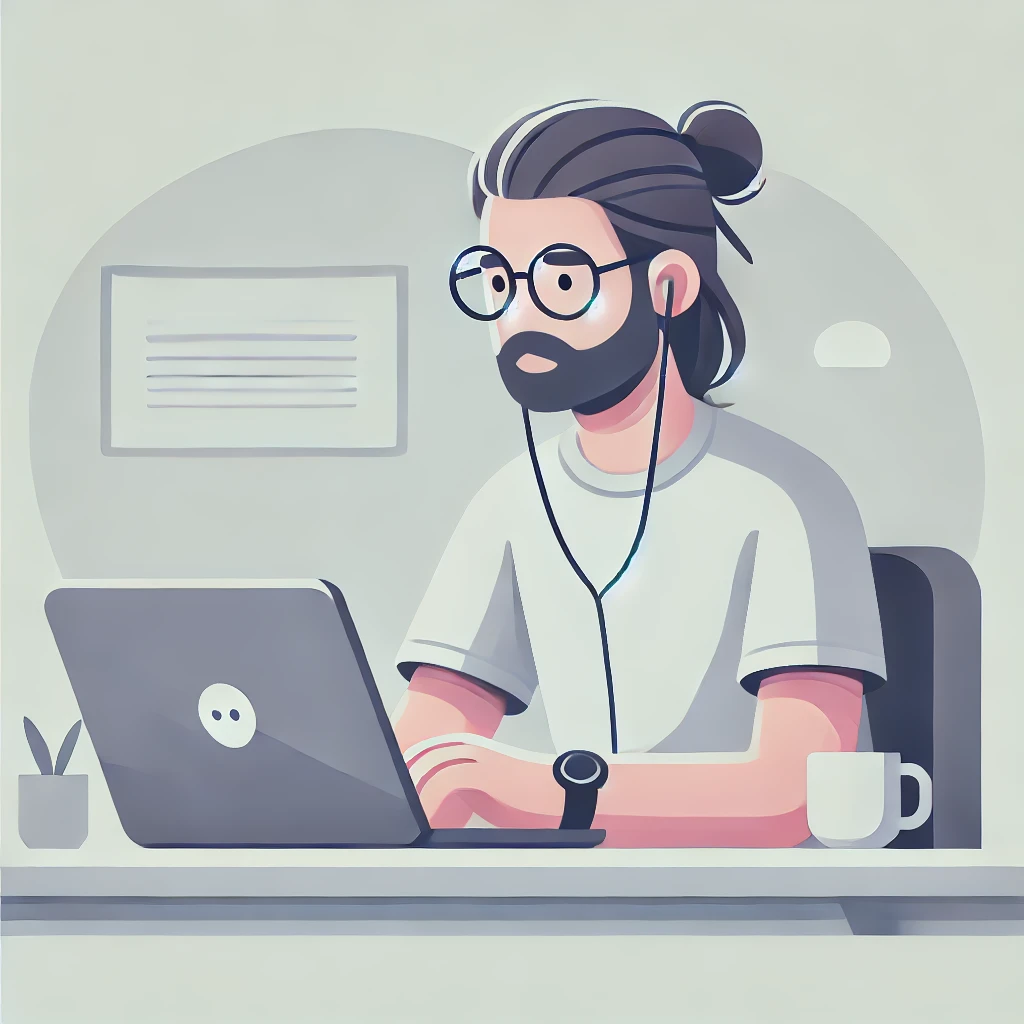
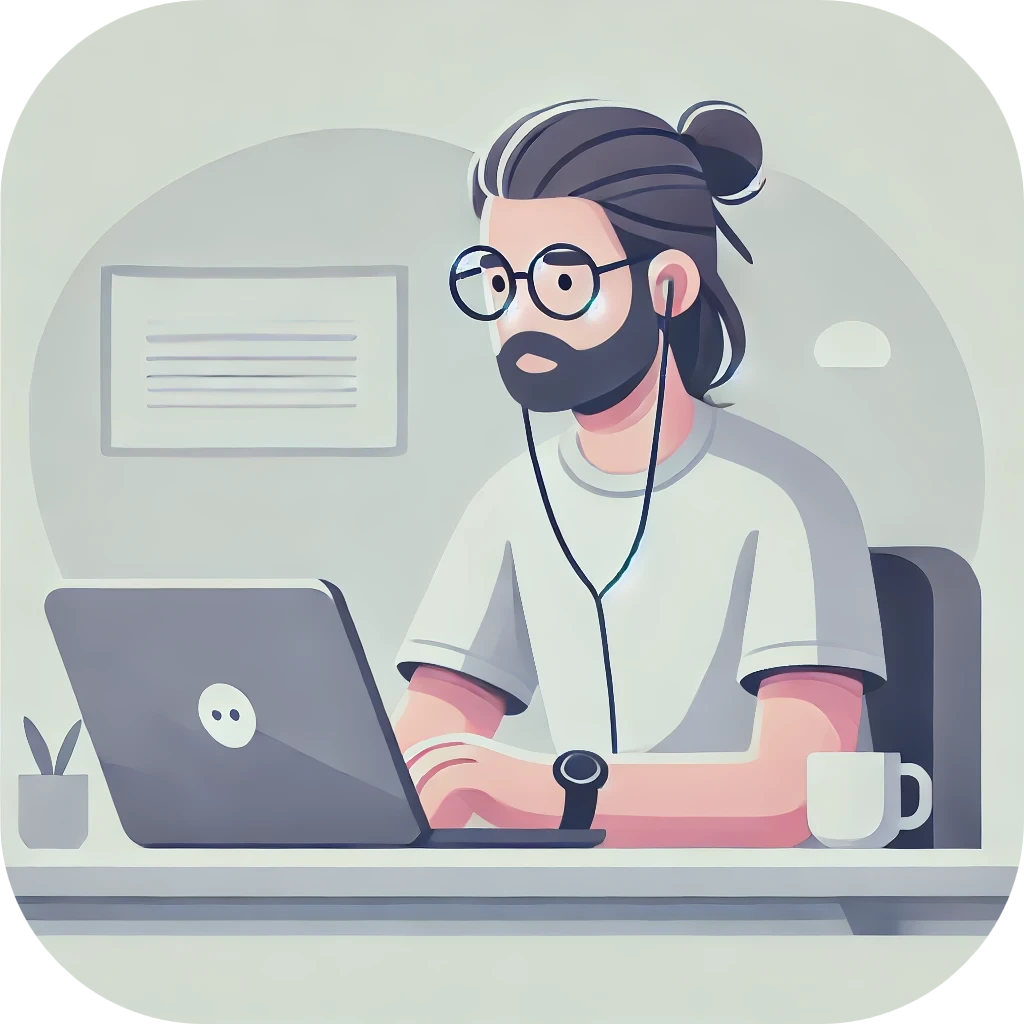
fix - polishing details

diff --git a/README.md b/README.md
@@ -1,10 +1,10 @@
 <h1 align="center">Hi 👋, I'm Alejandro</h1>
 <h3 align="center">A Backend-Focused Full-Stack Developer</h3>
-<img align="right" style="border-radius: 20%;" height="300" src="./assets/dev.webp" alt=""/>
+<img align="right" height="300" src="./assets/dev.webp" alt="Developer Illustration"/>
 
-![profile-views](https://komarev.com/ghpvc/?username=alecurfon&label=Profile%20views&color=0e8aea&style=flat)
+![](https://komarev.com/ghpvc/?username=alecurfon&label=Profile%20views&color=0e8aea&style=flat)
 
-### About me
+### About Me
 
 - 💼 BackEnd Engineer at [Instituto Tecnológico de Canarias S.A.](https://www.itccanarias.org)
 
@@ -14,12 +14,13 @@
 
 - 📫 Ask me about anything [here](https://github.com/alecurfon/alecurfon/issues)
 
-Thanks for stopping by! Feel free to reach out if you'd like to collaborate or have any comments.
 
-### Connect with me
+### Connect with Me
 
 <code>[<img src="https://raw.githubusercontent.com/devicons/devicon/master/icons/linkedin/linkedin-original.svg" height="20"/>](https://linkedin.com/in/alecurfon "in/alecurfon")</code>
 <code>[<img src="https://raw.githubusercontent.com/devicons/devicon/master/icons/github/github-original.svg" height="20"/>](https://github.com/alecurfon/alecurfon/issues "alecurfon")</code>
+
+Thanks for stopping by! Feel free to reach out if you'd like to collaborate or have any comments.
 
 ### Languages and Tools
 
@@ -34,20 +35,19 @@ My expertise lies primarily in backend technologies, but I also enjoy working on
 <code>[<img src="https://raw.githubusercontent.com/devicons/devicon/master/icons/pandas/pandas-original.svg" height="20"/>](https://pandas.pydata.org/ "Pandas")</code>
 <code>[<img src="https://raw.githubusercontent.com/devicons/devicon/master/icons/streamlit/streamlit-original.svg" height="20"/>](https://streamlit.io/ "Streamlit")</code>
 <code>[<img src="https://raw.githubusercontent.com/devicons/devicon/master/icons/typescript/typescript-original.svg" height="20"/>](https://www.typescriptlang.org/ "TypeScript")</code>
-<code>[<img src="https://raw.githubusercontent.com/devicons/devicon/master/icons/bash/bash-original.svg" height="20"/>](https://www.gnu.org/software/bash/ "GNU")</code>
+<code>[<img src="https://raw.githubusercontent.com/devicons/devicon/master/icons/bash/bash-original.svg" height="20"/>](https://www.gnu.org/software/bash/ "GNU Bash")</code>
 <code>[<img src="https://raw.githubusercontent.com/devicons/devicon/master/icons/github/github-original.svg" height="20"/>](https://github.com/ "GitHub")</code>
 <code>[<img src="https://raw.githubusercontent.com/devicons/devicon/master/icons/git/git-original.svg" height="20"/>](https://git-scm.com/ "Git")</code>
 <code>[<img src="https://raw.githubusercontent.com/devicons/devicon/master/icons/linux/linux-original.svg" height="20"/>](https://www.linux.org/ "Linux")</code>
 <code>[<img src="https://raw.githubusercontent.com/devicons/devicon/master/icons/ubuntu/ubuntu-original.svg" height="20"/>](https://www.ubuntu.com/ "Ubuntu")</code>
 
-![most-used-languages](https://github-readme-stats.vercel.app/api/top-langs/?username=alecurfon&layout=compact&theme=solarized-light)
+![](https://github-readme-stats.vercel.app/api/top-langs/?username=alecurfon&layout=compact&theme=solarized-light)
 
 ### Stats
 
-![github-stats](https://github-readme-stats.vercel.app/api?username=alecurfon&show_icons=true&include_all_commits=true&theme=solarized-light)
-![github-streak](https://github-readme-streak-stats.herokuapp.com?user=alecurfon&hide_current_streak=true&hide_longest_streak=true&theme=solarized-light)
+![](https://github-readme-stats.vercel.app/api?username=alecurfon&theme=solarized-light&card_width=400&border=0000001F&hide=stars,commits,prs,issues,contribs&show_icons=true&include_all_commits=true)![](https://github-readme-streak-stats.herokuapp.com?user=alecurfon&theme=solarized-light&card_width=400&card_height=180&border=0000001F&hide_current_streak=true&hide_longest_streak=true)
 
 ### Top Repositories
 
-[![top-repository-1](https://github-readme-stats.vercel.app/api/pin/?username=alecurfon&repo=VegetADN-Server&theme=buefy)](https://github.com/alecurfon/VegetADN-Server)
-[![top-repository-2](https://github-readme-stats.vercel.app/api/pin/?username=alecurfon&repo=VegetADN-Client&theme=buefy)](https://github.com/alecurfon/VegetADN-Client)
+[![](https://github-readme-stats.vercel.app/api/pin/?username=alecurfon&repo=VegetADN-Server&theme=buefy)](https://github.com/alecurfon/VegetADN-Server)
+[![](https://github-readme-stats.vercel.app/api/pin/?username=alecurfon&repo=VegetADN-Client&theme=buefy)](https://github.com/alecurfon/VegetADN-Client)
